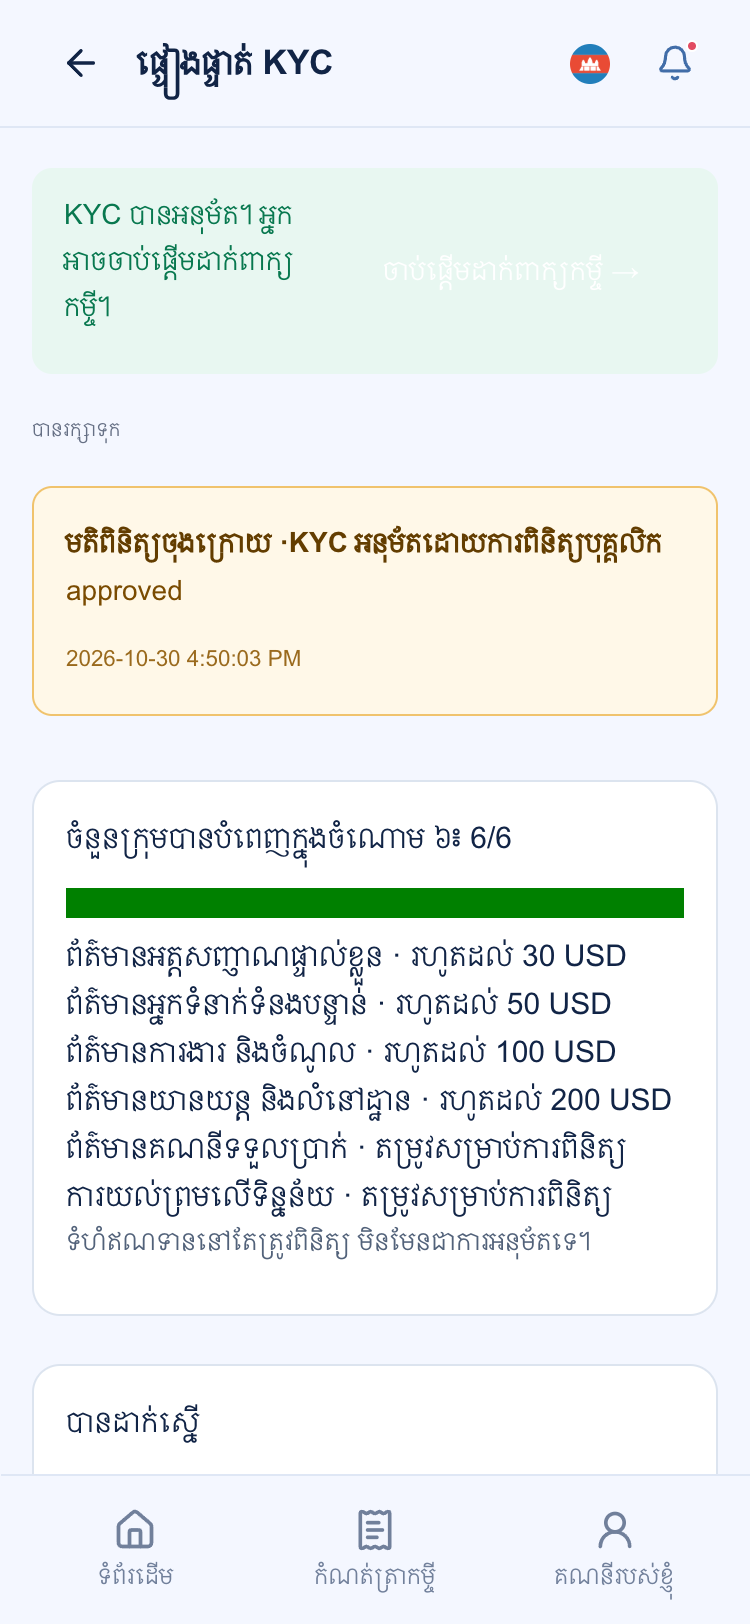
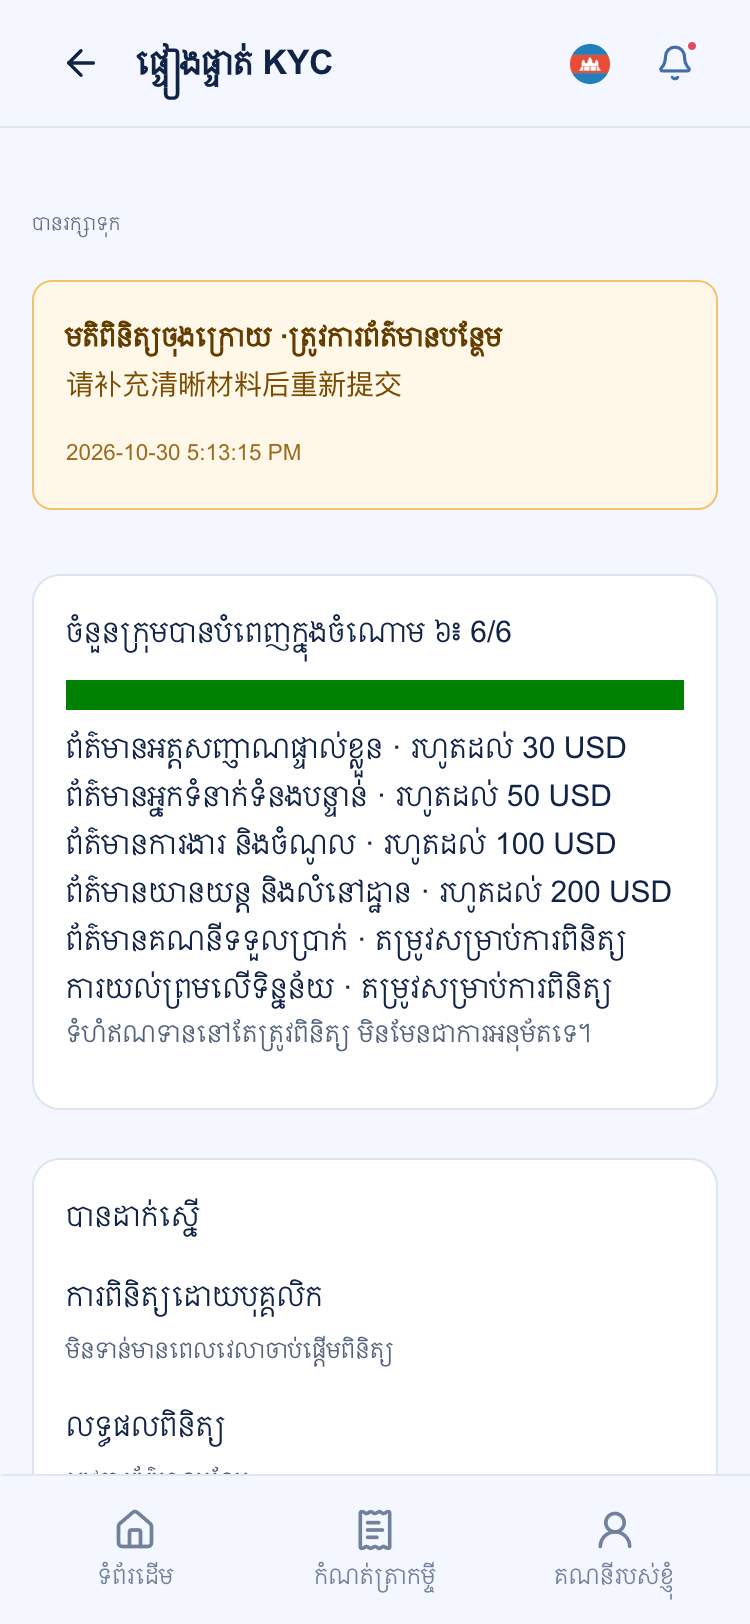
fix: route KYC review labels through localized copy

Changed region(s): [[0.0307, 0.1232, 0.92, 0.8929]]

diff --git a/lib/kyc/ui-copy.ts b/lib/kyc/ui-copy.ts
@@ -27,6 +27,9 @@ const copy:Record<string,[string,string]>={
  '资料已逐项核对。':['Details checked.','បានពិនិត្យព័ត៌មានគ្រប់ចំណុច។'],
  '材料与填写内容一致。':['Documents match the details.','ឯកសារត្រូវនឹងព័ត៌មានដែលបានបំពេញ។'],
  '本次人工资料审核通过。':['Manual review passed.','បានឆ្លងកាត់ការពិនិត្យដោយបុគ្គលិក។'],
+ '人工资料审核通过':['Manual review passed.','បានឆ្លងកាត់ការពិនិត្យដោយបុគ្គលិក។'],
+ '待补件':['More information needed','ត្រូវបន្ថែមព័ត៌មាន'],
+ '资料审核未通过':['Review not approved','ការពិនិត្យមិនបានអនុម័ត'],
  '请提供清晰、完整的材料。':['Provide clear, complete documents.','សូមផ្ដល់ឯកសារច្បាស់ និងពេញលេញ។'],
  '请核对填写内容。':['Check the details entered.','សូមពិនិត្យព័ត៌មានដែលបានបំពេញ។'],
  '请按补件要求重新提交。':['Resubmit the requested updates.','សូមដាក់ស្នើឡើងវិញតាមសំណើបន្ថែម។'],

diff --git a/app/kyc/client.tsx b/app/kyc/client.tsx
@@ -39,7 +39,7 @@ export default function CustomerKyc({review=false,mini=false,initialSection}:{re
  function closePreview(){previewDialog.current?.close();setPreview(null);previewTrigger.current?.focus()}
  useEffect(()=>{if(!preview)return;const dialog=previewDialog.current;if(dialog){dialog.removeAttribute('open');dialog.showModal()}},[preview]);
  const localLabel=(text:string)=>review?text:kycText(text,locale);
- const reviewDecisionLabel=(decision:string)=>decision==='approved'?(locale==='zh'?'人工资料审核通过':locale==='km'?'KYC បានអនុម័ត':'Manual review passed'):decision==='needs_info'?(locale==='zh'?'待补件':locale==='km'?'ត្រូវបន្ថែមព័ត៌មាន':'More information needed'):decision==='rejected'?(locale==='zh'?'资料审核未通过':locale==='km'?'资料审核មិនបានអនុម័ត':'Review not approved'):'';
+ const reviewDecisionLabel=(decision:string)=>decision==='approved'?kycText('人工资料审核通过',locale):decision==='needs_info'?kycText('待补件',locale):decision==='rejected'?kycText('资料审核未通过',locale):'';
  const stamp=(value:string)=>kycDate(value,review?'zh':locale);
  const [amending,setAmending]=useState(false);
  const sensitiveEdits=useRef<Record<string,{masked:boolean;dirty:boolean;revealToken:string}>>({});

diff --git a/docs/review/kyc-status-screens-20261030.md b/docs/review/kyc-status-screens-20261030.md
@@ -1,6 +1,10 @@
 # KYC 状态页修复截图（PR152 follow-up）
 
-使用本地 demo worker 和 Playwright headless Chromium，375×812 CSS 视口、deviceScaleFactor 2、`fullPage:false`；截图在页面加载完成后拍摄。
+使用本地 demo worker 和 Playwright headless Chromium，375×812 CSS 视口、deviceScaleFactor 2、`fullPage:false`；截图在页面加载完成后拍摄。复拍命令（本地端口 5174）：
+
+```sh
+node /private/tmp/pw-run/pr152shots.mjs
+```
 
 | 文件 | 语言/状态 |
 |---|---|
@@ -9,3 +13,11 @@
 | `kyc-status-375-en-approved.png` | English，已通过 |
 
 本轮未修改产品以外的生产配置；截图使用虚构 demo 资料。状态卡现按 `approved` / `needs_info` / `rejected` 使用成功、警示、错误色，状态文案走三语本地化，不再直接显示原始枚举值。进度条和窄屏通过按钮统一使用 `#1677FF` 主色；通过链接允许长文案换行。
+
+复拍后 SHA-256：
+
+| 文件 | SHA-256 |
+|---|---|
[3 lines of base64/hex data omitted]
